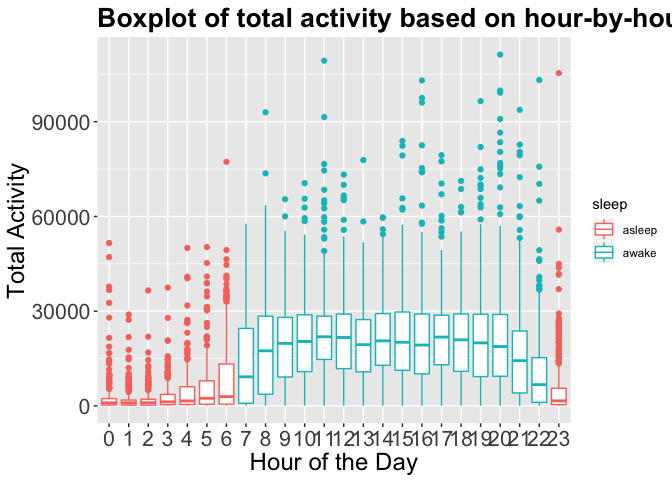
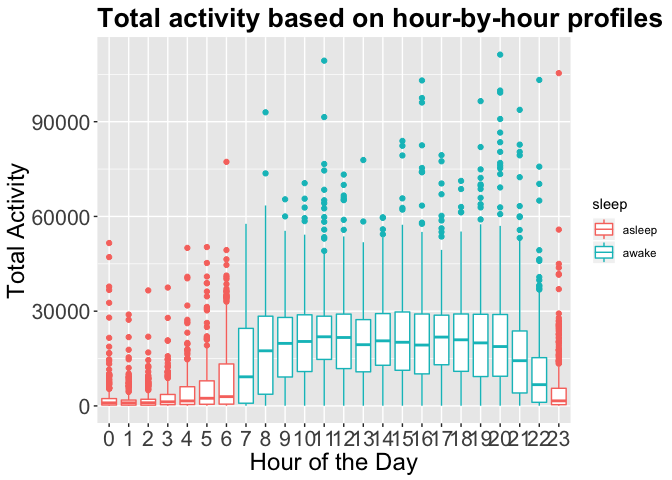
10/25 3:27pm progress, below 500

Changed region(s): [[0.125, 0.0, 1.0, 0.0625]]

diff --git a/p8105_mtp_zdz2101.md b/p8105_mtp_zdz2101.md
@@ -30,10 +30,10 @@ wordcountaddin::text_stats("p8105_mtp_zdz2101.Rmd")
 
 | Method          | koRpus      | stringi       |
 |:----------------|:------------|:--------------|
-| Word count      | 761         | 715           |
-| Character count | 4148        | 4147          |
-| Sentence count  | 36          | Not available |
-| Reading time    | 3.8 minutes | 3.6 minutes   |
+| Word count      | 499         | 471           |
+| Character count | 2885        | 2884          |
+| Sentence count  | 31          | Not available |
+| Reading time    | 2.5 minutes | 2.4 minutes   |
 
 Read data/tidying
 -----------------
@@ -48,36 +48,32 @@ accelero_data <- read_csv("data/p8105_mtp_data.csv") %>%
   select(day_id, week, day, hour, activity, minute, activity_value) %>%
   arrange(week,day)
 
-sample_n(accelero_data, 10)  #show that day_id is works
+sample_n(accelero_data, 10)
 ```
 
     ## # A tibble: 10 x 7
     ##    day_id  week day        hour activity      minute activity_value
     ##     <dbl> <int> <fct>     <dbl> <chr>          <dbl>          <dbl>
-    ##  1    143    21 Tuesday      19 activity.1197   1197          425. 
-    ##  2     49     7 Saturday     13 activity.824     824            1  
-    ##  3     76    11 Friday       17 activity.1070   1070            1  
-    ##  4    313    45 Thursday     19 activity.1180   1180          458. 
-    ##  5    144    21 Wednesday    19 activity.1164   1164           43.0
-    ##  6    298    43 Wednesday    10 activity.611     611           11.0
-    ##  7    155    23 Sunday       16 activity.988     988          150. 
-    ##  8    112    16 Saturday      1 activity.90       90            1  
-    ##  9    129    19 Tuesday       5 activity.343     343            1  
-    ## 10     70    10 Saturday      3 activity.193     193            1
+    ##  1    157    23 Tuesday      15 activity.903     903           335.
+    ##  2    316    46 Sunday        4 activity.297     297             1 
+    ##  3    312    45 Wednesday    20 activity.1241   1241           985.
+    ##  4    220    32 Tuesday      10 activity.619     619             1 
+    ##  5     73    11 Tuesday      13 activity.836     836           349.
+    ##  6    312    45 Wednesday     5 activity.326     326             1 
+    ##  7    218    32 Sunday       18 activity.1084   1084          1736.
+    ##  8    243    35 Thursday     21 activity.1278   1278           322.
+    ##  9    265    38 Friday       20 activity.1210   1210             1 
+    ## 10     70    10 Saturday     22 activity.1347   1347           127.
 
-``` r
-#I cleverly used a linear transform of week and a numeric version of day to attain day_id
-```
+This dataset has 473760 observations and 7 variables. The number of observations is expected as there is 1 reading/minute, 60 minutes/hour, 24 hours/day, 7 days/week, and 47 weeks worth of accelerometer readings (product of these 4 numbers gets you 473760). Variables are:
 
-The final dataset I have attained has 473760 observations and 7 variables. The number of observations was as expected as there are 60 minutes in an hour, 24 hours a day, 7 days a week, and 47 weeks worth of accelerometer readings, in which case the product of these 4 numbers gets you 473760. My variables are as follows:
-
-1.  **day\_id**: Identifies the day of the study with the assumption that sunday is the beginning of a week, so week 1 sunday is day 1, week 2 sunday is day 8, etc.
-2.  **week**: Identifies what week of the study this patient was wearing the accelerometer
-3.  **day**: Identifies what weekday it is, which I recoded to as a factor
-4.  **hour**: Identifies what hour of the day it is (24 hour/military time)
-5.  **activity**: A column of essentially the column names of the original file, this was my "key" for when using the gather function, I left it as is to "preserve the original observations"
-6.  **minute**: Identifies minute of day 1 being 12:00 - 12:01 AM, 1440 being 11:59 PM - 12:00 AM
-7.  **activity\_value**: The accelerometer activity reading for a particular moment in time
+1.  **day\_id**: day of study, assuming week starts on sunday
+2.  **week**: week of study
+3.  **day**: weekday, recoded to factor
+4.  **hour**: hour of day (military time)
+5.  **activity**: essentially is the column names of the original file, used as "key" for the gather function, left here to "preserve original observations"
+6.  **minute**: minute of day
+7.  **activity\_value**: accelerometer activity reading
 
 Aggregate data by day and discover some trends
 ==============================================
@@ -94,16 +90,15 @@ day_aggregate_df <- accelero_data %>%
             max = quantile(activity_value, 1)
             )
   
-
 day_aggregate_plot <- day_aggregate_df %>%
-  filter(total_activity != 1440) %>% #----------get rid of days with presumably invalid readings
+  filter(total_activity != 1440) %>% #---------remove days w/ invalid readings
   ggplot(., aes(x = day_id, y = total_activity)) + 
   geom_point(aes(color = day), alpha = 0.5) + 
   geom_smooth() +
   ylab("Total Activity") +
   xlab("Day of Study") + 
   theme(legend.position = "bottom") +
-  ggtitle("Total activity measure by each day of study") + 
+  ggtitle("Total activity of each day") + 
   theme(axis.text = element_text(size = 16),
         axis.title = element_text(size = 18),
         plot.title = element_text(size = 20, face = "bold"),
@@ -118,7 +113,7 @@ by_day_plot <- day_aggregate_df %>%
   ylab("Total Activity") +
   xlab("Day of Study") + 
   theme(legend.position = "none") +
-  ggtitle("Total activity measure by weekday") +
+  ggtitle("Total activity measure by weekdays") +
   theme(axis.text = element_text(size = 16),
         axis.title = element_text(size = 18),
         plot.title = element_text(size = 20, face = "bold"),
@@ -128,11 +123,11 @@ by_day_plot <- day_aggregate_df %>%
 day_aggregate_plot + by_day_plot
 ```
 
-![](p8105_mtp_zdz2101_files/figure-markdown_github/Aggregate%20by%20day-1.png)
+![](p8105_mtp_zdz2101_files/figure-markdown_github/Day%20Aggregate-1.png)
 
-Using the sum of the 1440 readings on a given day (our Total Activity measure), as shown by the figure on the left, it is clear there is an upward trend in activity throughout the course of the study. It looks like there was an ever so slight dip ~day 150, about week 21-22, but the trend over the course of the 47 weeks is still that of which is overall increasing. Based on the figure on the right, weekday does not seem to play any big role in this finding as the patient's activity seemed to still increase over time regardless of what day it was. Though it could be argued the patient's activity on Thursdays looks a little stagnant.
+Plotting total activity by day, as shown on the left, we see an upward trend in activity throughout the course of the study. It dips around day 150, but the trend overall throughout 47 weeks is still positive. Based on the figure on the right, the patient's activity still increases over time regardless of what day it is signifying weekday does not play a role in our findings. It could be argued the patient's activity on Thursdays looks stagnant.
 
-It is interesting to note during the exploratory phase of this, I discovered 18 days: day\_id's 7, 8, 15, 18, 19, 20, 23, 25, 26, 27, 55, 78, 83, 84, 86, 133, 140, 219 where the total activity measure read "1440" which meant that there was no activity over the course of an entire day. I removed these days from the figures as it probably meant the patient was not wearing/using the accelerometer for that day or the accelerometer malfunctioned somehow. I suspect this is true for a few more days but establishing a particular cutoff seems difficult.
+I discovered 18 days: day\_id's 7, 8, 15, 18, 19, 20, 23, 25, 26, 27, 55, 78, 83, 84, 86, 133, 140, 219 where total activity is "1440" meaning there was no activity over the entirety of those days. I suspect the patient was not wearing the accelerometer or accelerometer malfunction, so I excluded these days from the figures.
 
 ``` r
 hour_aggregate <- accelero_data %>%
@@ -145,7 +140,7 @@ ggplot(hour_aggregate, aes(x = as.factor(hour), y = hourly_activity_total, color
   geom_boxplot() + 
   xlab("Hour of the Day") + 
   ylab("Total Activity") +
-  ggtitle("Boxplot of total activity based on hour-by-hour profiles") +
+  ggtitle("Total activity based on hour-by-hour profiles") +
   theme(axis.text = element_text(size = 16),
         axis.title = element_text(size = 18),
         plot.title = element_text(size = 20, face = "bold"),
@@ -154,7 +149,7 @@ ggplot(hour_aggregate, aes(x = as.factor(hour), y = hourly_activity_total, color
 
 ![](p8105_mtp_zdz2101_files/figure-markdown_github/Aggregate%20by%20hour/%22activity%20profiles%22-1.png)
 
-Given this datazet, it only seemed logical to visualize the data by hours of the day to get an idea of when our patient is actually awake and doing things. Based on this figure and an assumption that an adult sleeps 8 hours a day, I colored the boxplots with the 8 lowest medians a different color to signify "sleep" hours. It seems our patient here is a relatively normal adult: gets his day started around 7-8am, ramps up his activities which stabilizes from about 10am until 8pm or so, then begins to "wind down" his day and is asleep by 11pm.
+It only seemed logical to visualize data by hour to get a sense of when our patient is awake and doing things. Assuming 8 hours of sleep, I made the 8 hours with the lowest median readings a different color to signify "asleep" hours. Our patient is an average joe: starts his day around 7-8am, ramps up his activities which stabilizes from 10am until 8pm, then "winds down" his day and asleep by 11pm.
 
 ``` r
 top_one_percent <- quantile(accelero_data$activity_value, 0.99)
@@ -168,18 +163,18 @@ peaks_df<- accelero_data %>%
 peak_times_plot <- ggplot(peaks_df, aes(x = minute, y = activity_value, color = as.factor(day_id))) +
   geom_line() + 
   scale_x_continuous(breaks = seq(1,1440,60), labels = 0:23) + 
-  xlab("Hour of the Day") +
+  xlab("Hour of Day") +
   ylab("Activity Value") +
   ggtitle("Spaghetti plot of Top 1% of Accelerometer Readings") +
   theme(axis.text = element_text(size = 16),
         axis.title = element_text(size = 18),
         plot.title = element_text(size = 20, face = "bold"),
         strip.text = element_text(size = 14)) +
-  geom_hline(yintercept =  3000, color = "black", linetype = "dashed") +
+  geom_hline(yintercept =  2500, color = "black", linetype = "dashed") +
   theme(legend.position="none")
 
 exercise_df <- peaks_df %>%
-  filter(activity_value > 3000) %>%
+  filter(activity_value > 2500) %>%
   mutate(study = ifelse(day_id > 165, "Second Half", "First Half"))
 
 study_half_props <- exercise_df %>%
@@ -203,6 +198,6 @@ peak_times_plot/exercise_hyp_plot
 
 ![](p8105_mtp_zdz2101_files/figure-markdown_github/Finding%20peak%20times-1.png)
 
-In an attempt to track exercise, I took the assumption that the highest 1% of activity occurs during the patient's exercise time. Based on the top figure where each "spaghetti" line was meant to distinguish a particular day, it is clear there was a lot of "noise" below the activity level ~3000 (1% surely was not conservative enough).
+Attempting to track exercise, I assumed the highest 1% of activity is during exercise. Based on the top figure, it is clear there is still "noise" below the activity level ~2500; each "spaghetti" line was meant to distinguish a particular day.
 
-I tried something else where I filtered for readings above 3000, an arugment can be made to increase or decrease this seemingly arbitrary cutoff. As a result I rendered the bottom figure, a scatter plot of activity values against time of day where the left panel is data from the first half of the study (days 1 - 165), and the right panel is data from the second half of the study (days 165 - 329). Based on this plot, I suspect the patient likes to work out during three time zones: 11am - 1pm, 3pm - 6pm or around 8pm. This 3pm - 6pm slot became **much** more popular by the end of the study, if not an additional time dedicated to exercise. It even seems based on the sheer number of points in the second half compared to the first half, the patient seems to just be exercising more and pushing himself harder to higher levels of activity. Among the 943 instances where the patient had an activity level above 3000, 62.6 % of those instances were in the second half of the study, compared to 37.4 %.
+So I filtered for readings above 2500 (arbitrary, easily adjustable). The bottom panels show scatter plots of activity against time of day where the left is data from the first half of the study, days 1 - 165, and the right is data from the second half of the study, days 165 - 329. I believe the patient likes to exercise during three periods: 11-1pm, 3-6pm or around 8pm. This 3-6pm slot became **much** more popular by the end of the study, as if it became solely dedicated to exercise. The second half plot has much more points, generally higher too, than the first which suggests the patient is exercising more frequently and intensely over time. Among the 1489 instances where the patient had an activity level above 3000, 61.3 % of those instances were in the second half of the study, compared to 38.7 %.
